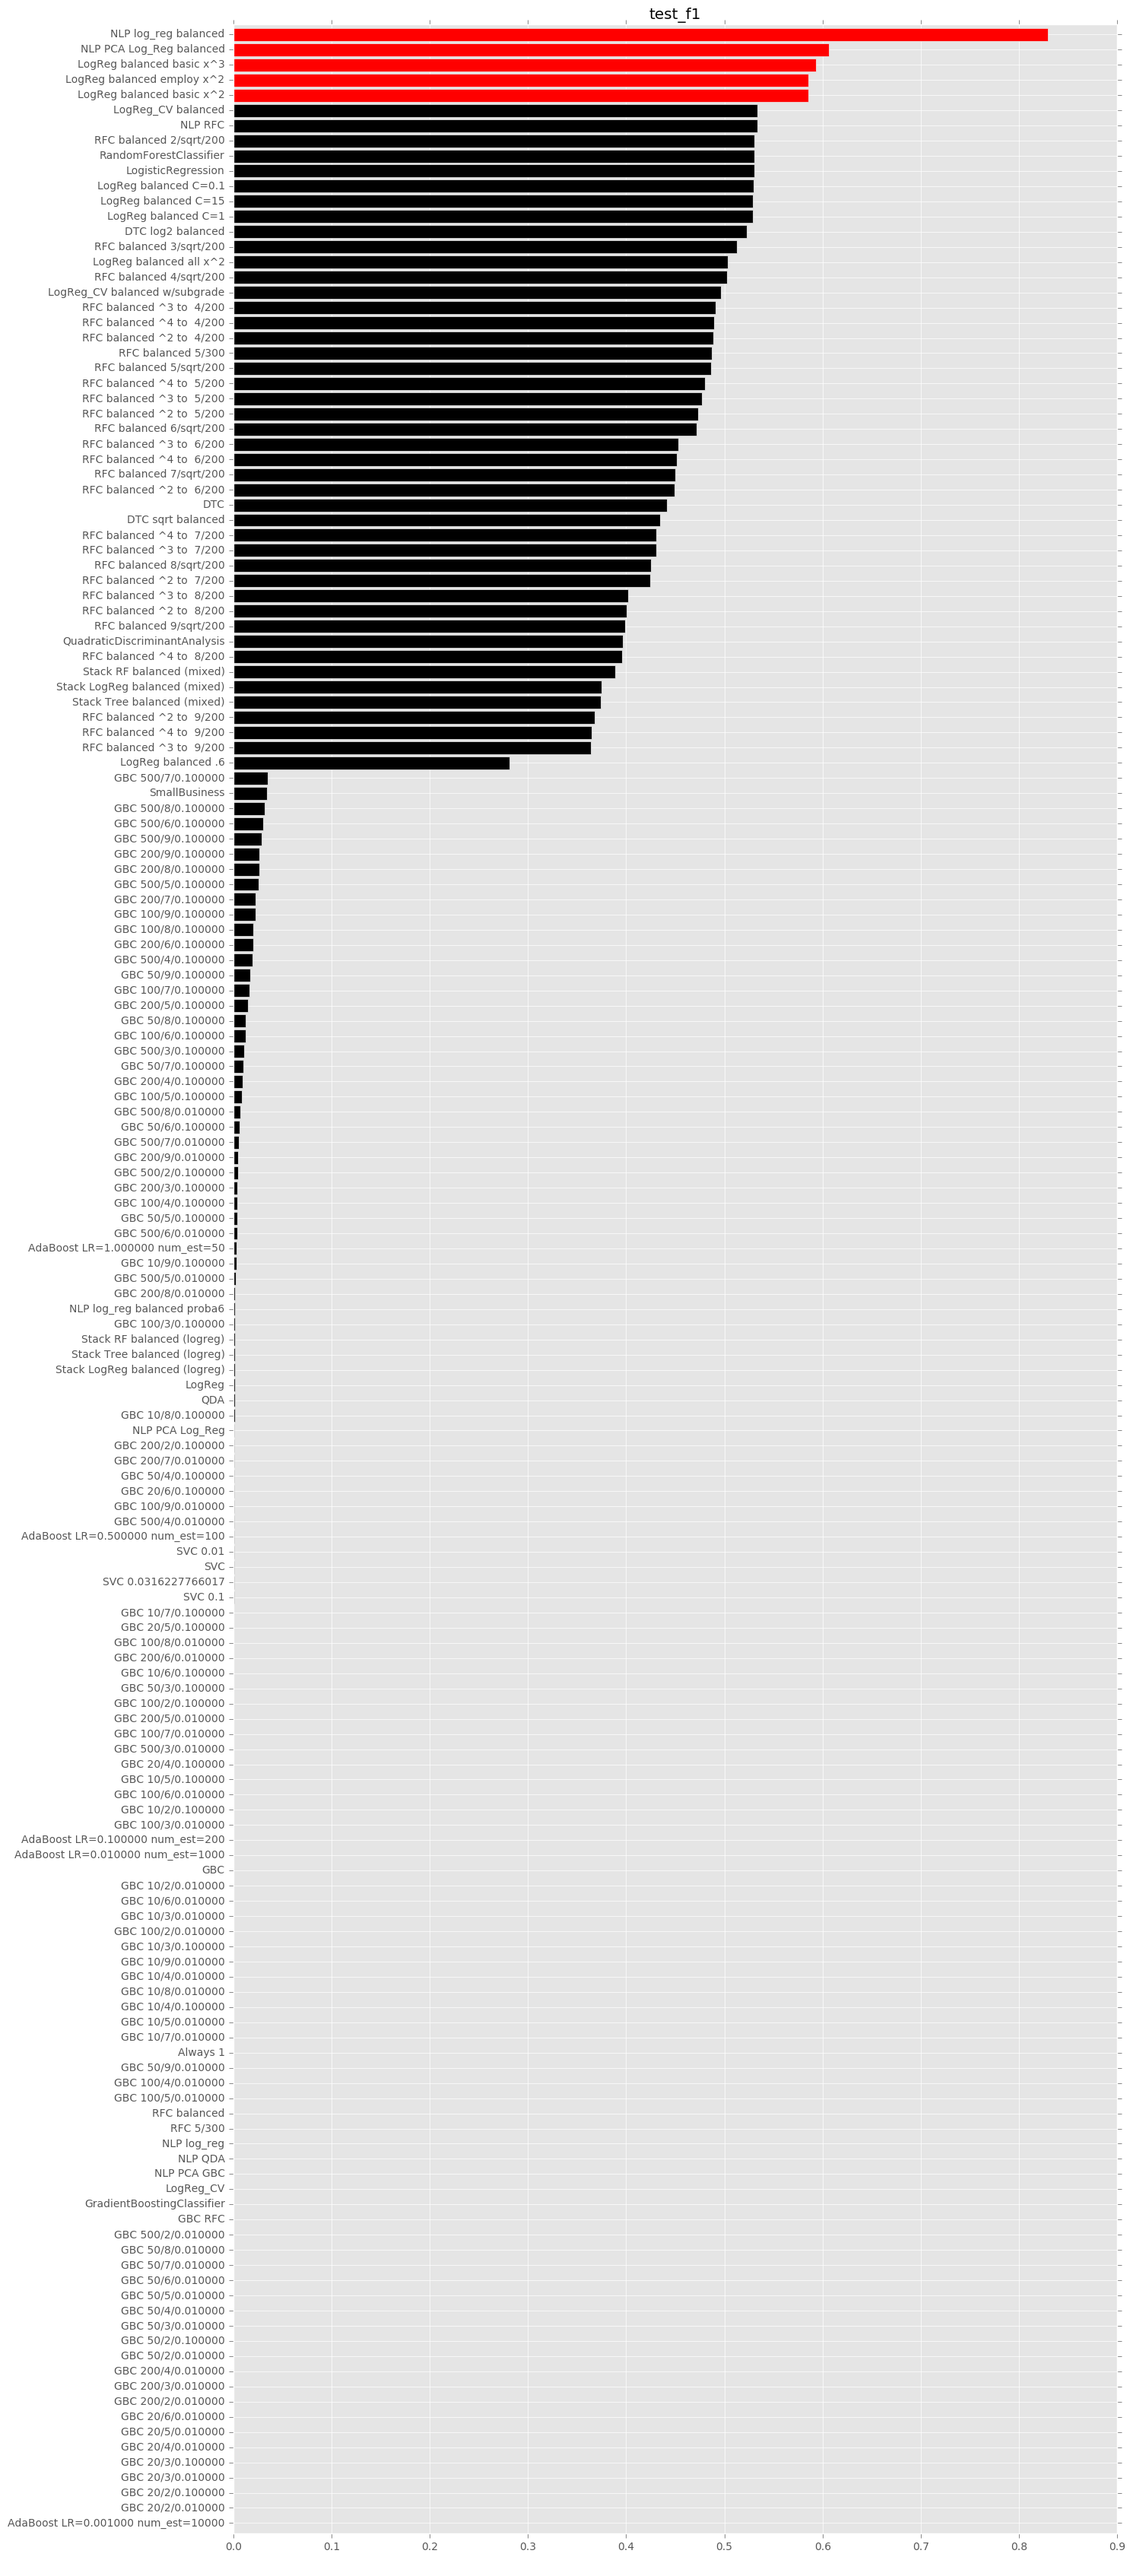
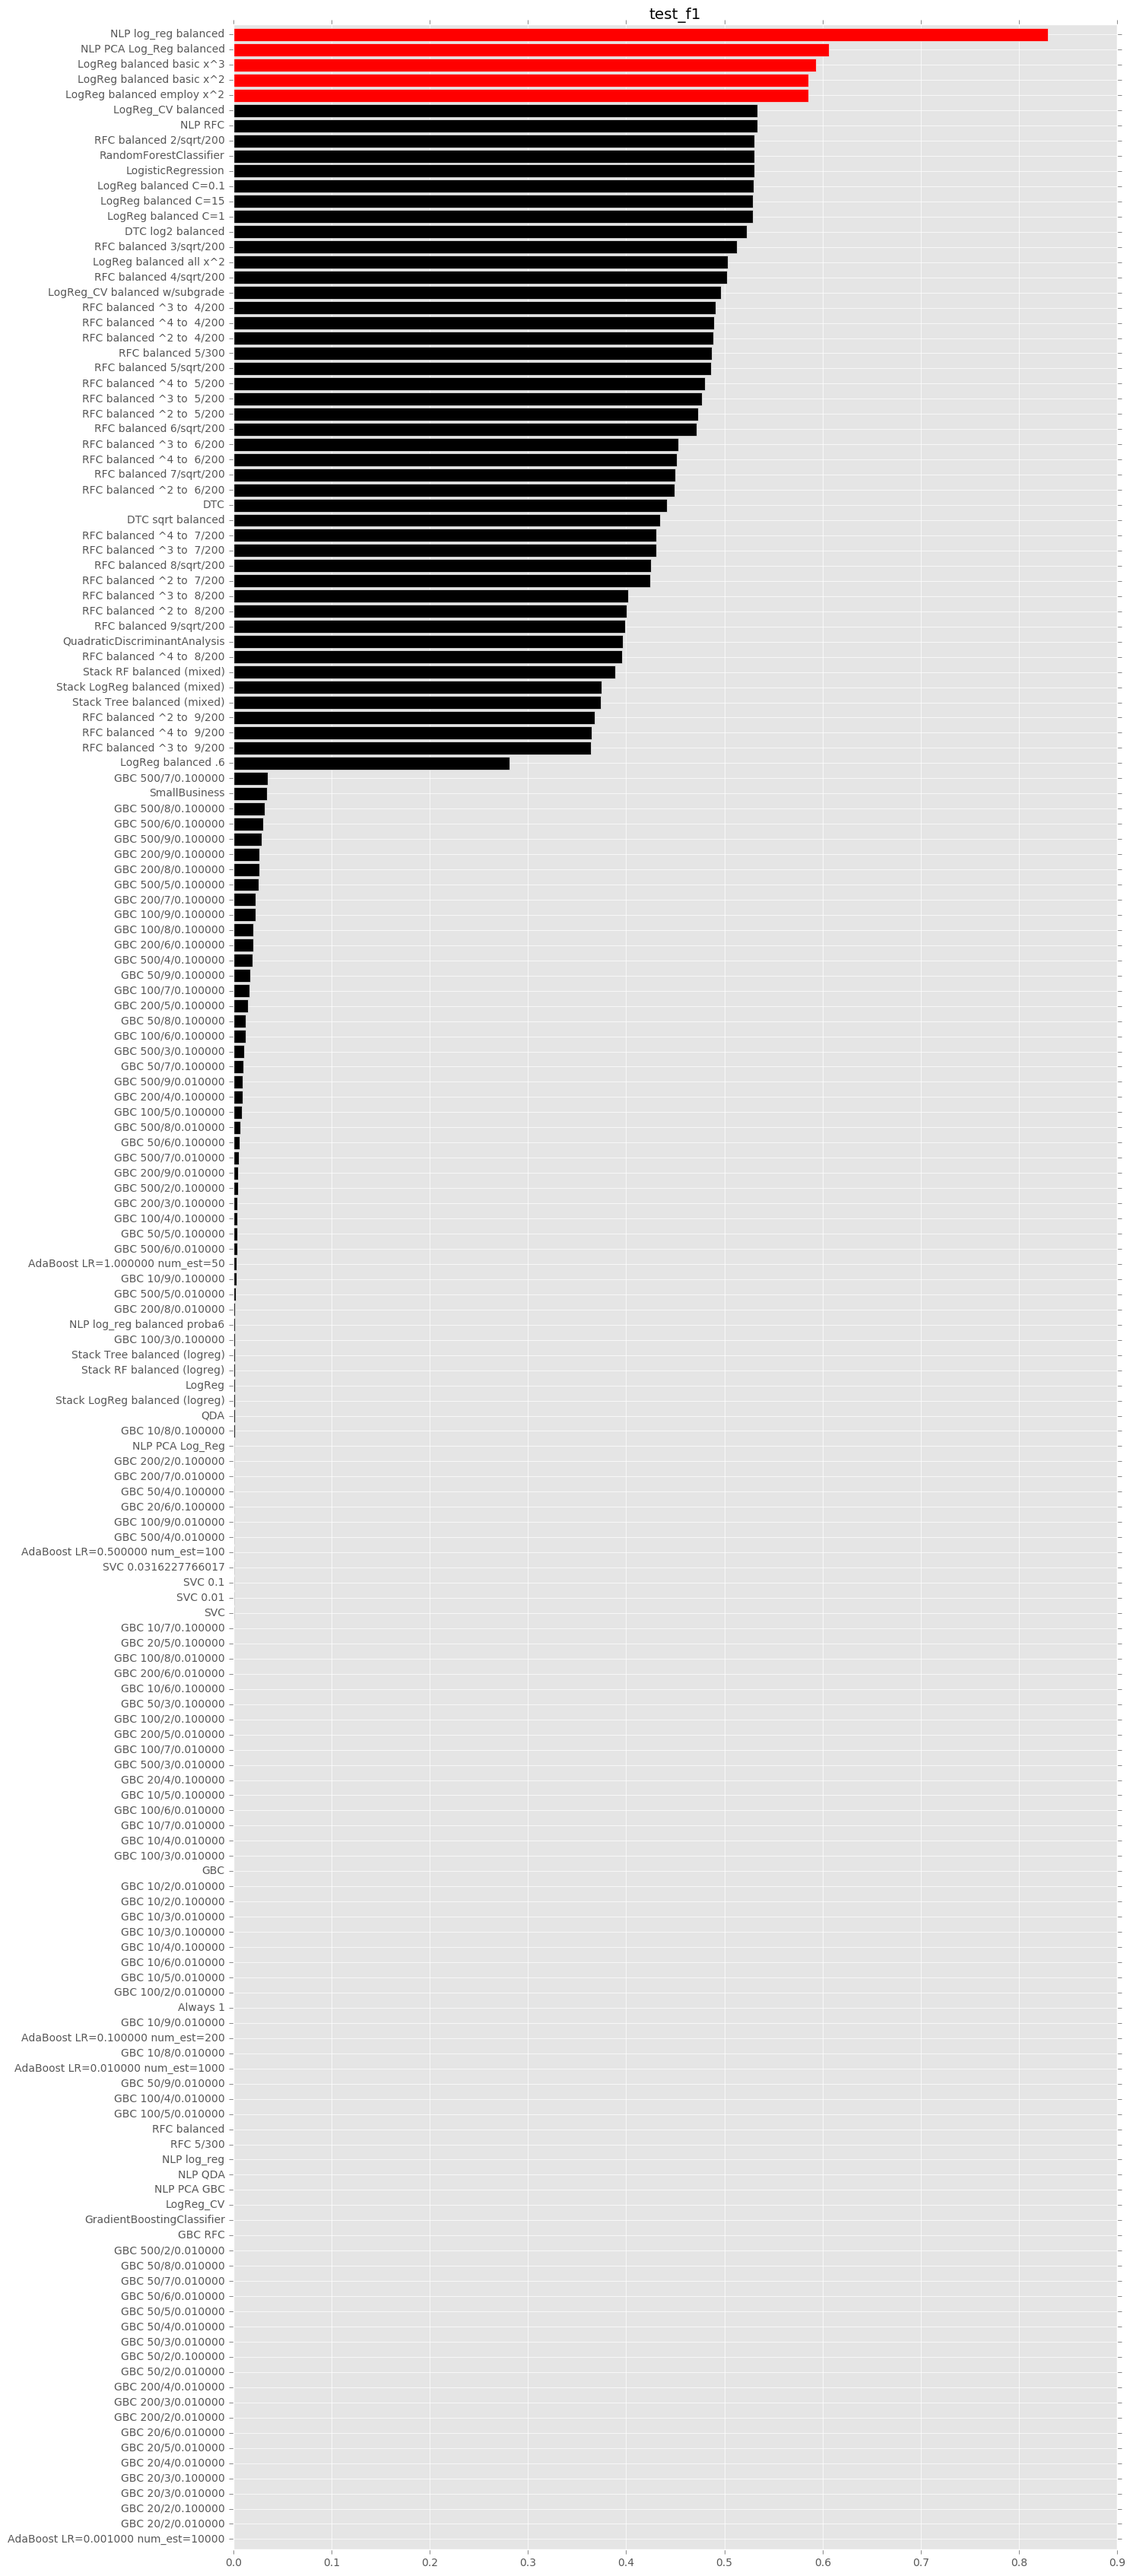
GBC finished running

Changed region(s): [[0.0617, 0.0, 0.6792, 0.9979]]

diff --git a/docs/05-Analysis.html b/docs/05-Analysis.html
@@ -162,6 +162,7 @@
 <tr><th>GBC 500/7/0.100000</th><td>0.630</td><td>0.911</td><td>0.704</td><td>0.838</td><td>0.035</td><td>0.705</td><td>0.840</td></tr>
 <tr><th>GBC 500/8/0.010000</th><td>0.654</td><td>0.916</td><td>0.653</td><td>0.846</td><td>0.008</td><td>0.633</td><td>0.847</td></tr>
 <tr><th>GBC 500/8/0.100000</th><td>0.625</td><td>0.912</td><td>0.711</td><td>0.839</td><td>0.032</td><td>0.692</td><td>0.841</td></tr>
+<tr><th>GBC 500/9/0.010000</th><td>0.651</td><td>0.916</td><td>0.719</td><td>0.845</td><td>0.010</td><td>0.644</td><td>0.846</td></tr>
 <tr><th>GBC 500/9/0.100000</th><td>0.615</td><td>0.913</td><td>0.719</td><td>0.840</td><td>0.029</td><td>0.701</td><td>0.841</td></tr>
 <tr><th>GBC RFC</th><td>0.496</td><td>0.925</td><td>nan</td><td>0.860</td><td>0.000</td><td>nan</td><td class='better'>0.863</td></tr>
 <tr><th>GradientBoostingClassifier</th><td>0.613</td><td>0.918</td><td>nan</td><td>0.848</td><td>0.000</td><td>nan</td><td>0.848</td></tr>

diff --git a/docs/model_performance.html b/docs/model_performance.html
@@ -96,6 +96,7 @@
 <tr><th>GBC 500/7/0.100000</th><td>0.630</td><td>0.911</td><td>0.704</td><td>0.838</td><td>0.035</td><td>0.705</td><td>0.840</td></tr>
 <tr><th>GBC 500/8/0.010000</th><td>0.654</td><td>0.916</td><td>0.653</td><td>0.846</td><td>0.008</td><td>0.633</td><td>0.847</td></tr>
 <tr><th>GBC 500/8/0.100000</th><td>0.625</td><td>0.912</td><td>0.711</td><td>0.839</td><td>0.032</td><td>0.692</td><td>0.841</td></tr>
+<tr><th>GBC 500/9/0.010000</th><td>0.651</td><td>0.916</td><td>0.719</td><td>0.845</td><td>0.010</td><td>0.644</td><td>0.846</td></tr>
 <tr><th>GBC 500/9/0.100000</th><td>0.615</td><td>0.913</td><td>0.719</td><td>0.840</td><td>0.029</td><td>0.701</td><td>0.841</td></tr>
 <tr><th>GBC RFC</th><td>0.496</td><td>0.925</td><td>nan</td><td>0.860</td><td>0.000</td><td>nan</td><td class='better'>0.863</td></tr>
 <tr><th>GradientBoostingClassifier</th><td>0.613</td><td>0.918</td><td>nan</td><td>0.848</td><td>0.000</td><td>nan</td><td>0.848</td></tr>
